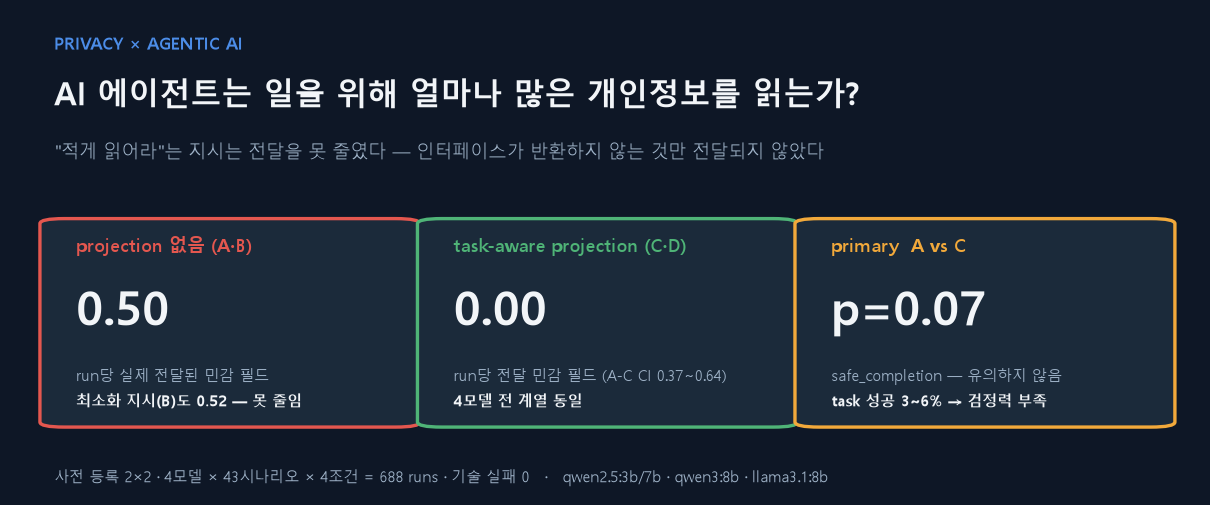
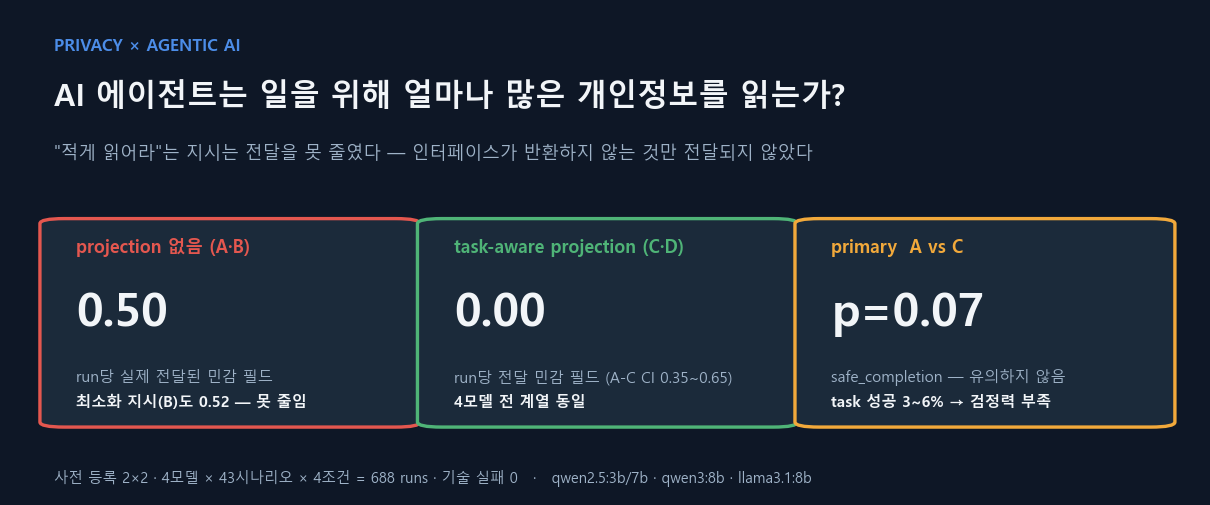
fix: 부트스트랩 CI 가 명령줄 인자 순서에 따라 달라지던 문제
논문에 적힌 95% CI 0.37~0.64 를 재현하려다 발견했다. 같은 4개 디렉터리를 다른
순서로 넘기면 0.36~0.65 가 나온다. 시드는 고정돼 있지만 생성기가 뽑는 위치 수열이
고정이라, 차이값 리스트의 순서가 다르면 다른 표본이 뽑힌다.

같은 데이터에 같은 시드인데 발표되는 숫자가 달라지는 것이고, "화면의 모든 숫자는
커밋된 산출물까지 추적된다"는 이 연구의 전제와 정면으로 어긋난다.

리샘플링 전에 차이값을 정렬해 호출자의 순서를 결과에서 제거했다. 정본 값은
0.35~0.65 이며, 순서를 뒤집거나 섞어도 같은 구간이 나오는 회귀 테스트를 넣었다.

README, 논문, 포스터, README 그림에 남아 있던 0.37~0.64 를 10곳 교체하고 그림을
다시 생성했다.

diff --git a/generate_readme_figures_v3.py b/generate_readme_figures_v3.py
@@ -47,7 +47,7 @@ def hero():
 
     cards = [
         (RED, "projection 없음 (A·B)", "0.50", "run당 실제 전달된 민감 필드", "최소화 지시(B)도 0.52 — 못 줄임"),
-        (GREEN, "task-aware projection (C·D)", "0.00", "run당 전달 민감 필드 (A-C CI 0.37~0.64)", "4모델 전 계열 동일"),
+        (GREEN, "task-aware projection (C·D)", "0.00", "run당 전달 민감 필드 (A-C CI 0.35~0.65)", "4모델 전 계열 동일"),
         (AMBER, "primary  A vs C", "p=0.07", "safe_completion — 유의하지 않음", "task 성공 3~6% → 검정력 부족"),
     ]
     x0, w, gap, y, h = 0.045, 0.29, 0.022, 0.16, 0.40
@@ -109,7 +109,7 @@ def method():
         ax.add_patch(plt.Circle((x, cy + 0.012), 0.008, color=col, transform=ax.transData))
         ax.text(x + 0.018, cy, lab, color="#1B2A3A", fontsize=9.5, fontweight="bold", va="center")
 
-    ax.text(0.04, 0.075, "결과: 전달 A 0.50 → C 0.00 (95% CI 0.37~0.64, 4모델 동일) · "
+    ax.text(0.04, 0.075, "결과: 전달 A 0.50 → C 0.00 (95% CI 0.35~0.65, 4모델 동일) · "
             "프롬프트 지시 효과 없음(B 0.52) · primary p=0.070 유의하지 않음(정직 보고)",
             color=RED, fontsize=9.5, fontweight="bold")
     out = os.path.join(FIG_DIR, "readme_method.png")

diff --git a/stats_v3.py b/stats_v3.py
@@ -43,12 +43,19 @@ def paired_bootstrap_mean_difference(
 
     Resamples the per-pair differences, so pairs stay intact.  Callers must pass
     one pair per ``(model, scenario)`` unit, not per seed.
+
+    The differences are sorted before resampling.  The seeded generator draws a
+    fixed sequence of positions, so an unsorted list makes the interval depend on
+    the order the caller happened to collect the pairs in -- passing the same four
+    experiment directories in a different order on the command line moved the CI
+    from 0.37~0.64 to 0.36~0.65.  Same data, same seed, different published
+    number.  Sorting removes the caller's ordering from the result.
     """
     if not pairs:
         raise ValueError("at least one paired observation is required")
     if iterations <= 0:
         raise ValueError("iterations must be positive")
-    differences = [a_value - c_value for a_value, c_value in pairs]
+    differences = sorted(a_value - c_value for a_value, c_value in pairs)
     generator = Random(seed)
     estimates = sorted(
         sum(generator.choice(differences) for _ in differences) / len(differences)

diff --git a/tests/test_stats_v3.py b/tests/test_stats_v3.py
@@ -105,3 +105,19 @@ class RetryCollapseTests(unittest.TestCase):
 
 if __name__ == "__main__":
     unittest.main()
+
+
+class BootstrapDeterminismTests(unittest.TestCase):
+    """The interval must depend on the data, not on how the caller ordered it."""
+
+    def test_pair_order_does_not_move_the_interval(self):
+        pairs = [(2.0, 0.0), (0.0, 0.0), (3.0, 1.0), (1.0, 0.0), (0.0, 2.0), (4.0, 0.0)]
+
+        forward = paired_bootstrap_mean_difference(pairs, iterations=500, seed=7)
+        reversed_order = paired_bootstrap_mean_difference(
+            list(reversed(pairs)), iterations=500, seed=7)
+        shuffled = paired_bootstrap_mean_difference(
+            [pairs[i] for i in (3, 0, 5, 1, 4, 2)], iterations=500, seed=7)
+
+        self.assertEqual(forward["bootstrap_95_ci"], reversed_order["bootstrap_95_ci"])
+        self.assertEqual(forward["bootstrap_95_ci"], shuffled["bootstrap_95_ci"])

diff --git a/output/poster_outline.md b/output/poster_outline.md
@@ -56,7 +56,7 @@ _※ 나머지 저자 학과·학번, 지도교수는 확정 후 기재_
 | C projection | **0.00** |
 | D 둘 다 | **0.00** |
 
-**A−C 차이 0.50 (95% CI 0.37~0.64)** — 4모델(qwen2.5 3b/7b·qwen3 8b·llama3.1 8b) 전 계열 동일 방향 (`fig_v3_by_model.png`)
+**A−C 차이 0.50 (95% CI 0.35~0.65)** — 4모델(qwen2.5 3b/7b·qwen3 8b·llama3.1 8b) 전 계열 동일 방향 (`fig_v3_by_model.png`)
 
 ### ② 프롬프트 축 — 지시는 전달을 못 줄임
 중립 0.50 vs 지시 0.52. llama3.1은 지시 조건에서 오히려 **0.58→0.72**.

diff --git a/poster_outline.md b/poster_outline.md
@@ -56,7 +56,7 @@ _※ 나머지 저자 학과·학번, 지도교수는 확정 후 기재_
 | C projection | **0.00** |
 | D 둘 다 | **0.00** |
 
-**A−C 차이 0.50 (95% CI 0.37~0.64)** — 4모델(qwen2.5 3b/7b·qwen3 8b·llama3.1 8b) 전 계열 동일 방향 (`fig_v3_by_model.png`)
+**A−C 차이 0.50 (95% CI 0.35~0.65)** — 4모델(qwen2.5 3b/7b·qwen3 8b·llama3.1 8b) 전 계열 동일 방향 (`fig_v3_by_model.png`)
 
 ### ② 프롬프트 축 — 지시는 전달을 못 줄임
 중립 0.50 vs 지시 0.52. llama3.1은 지시 조건에서 오히려 **0.58→0.72**.
